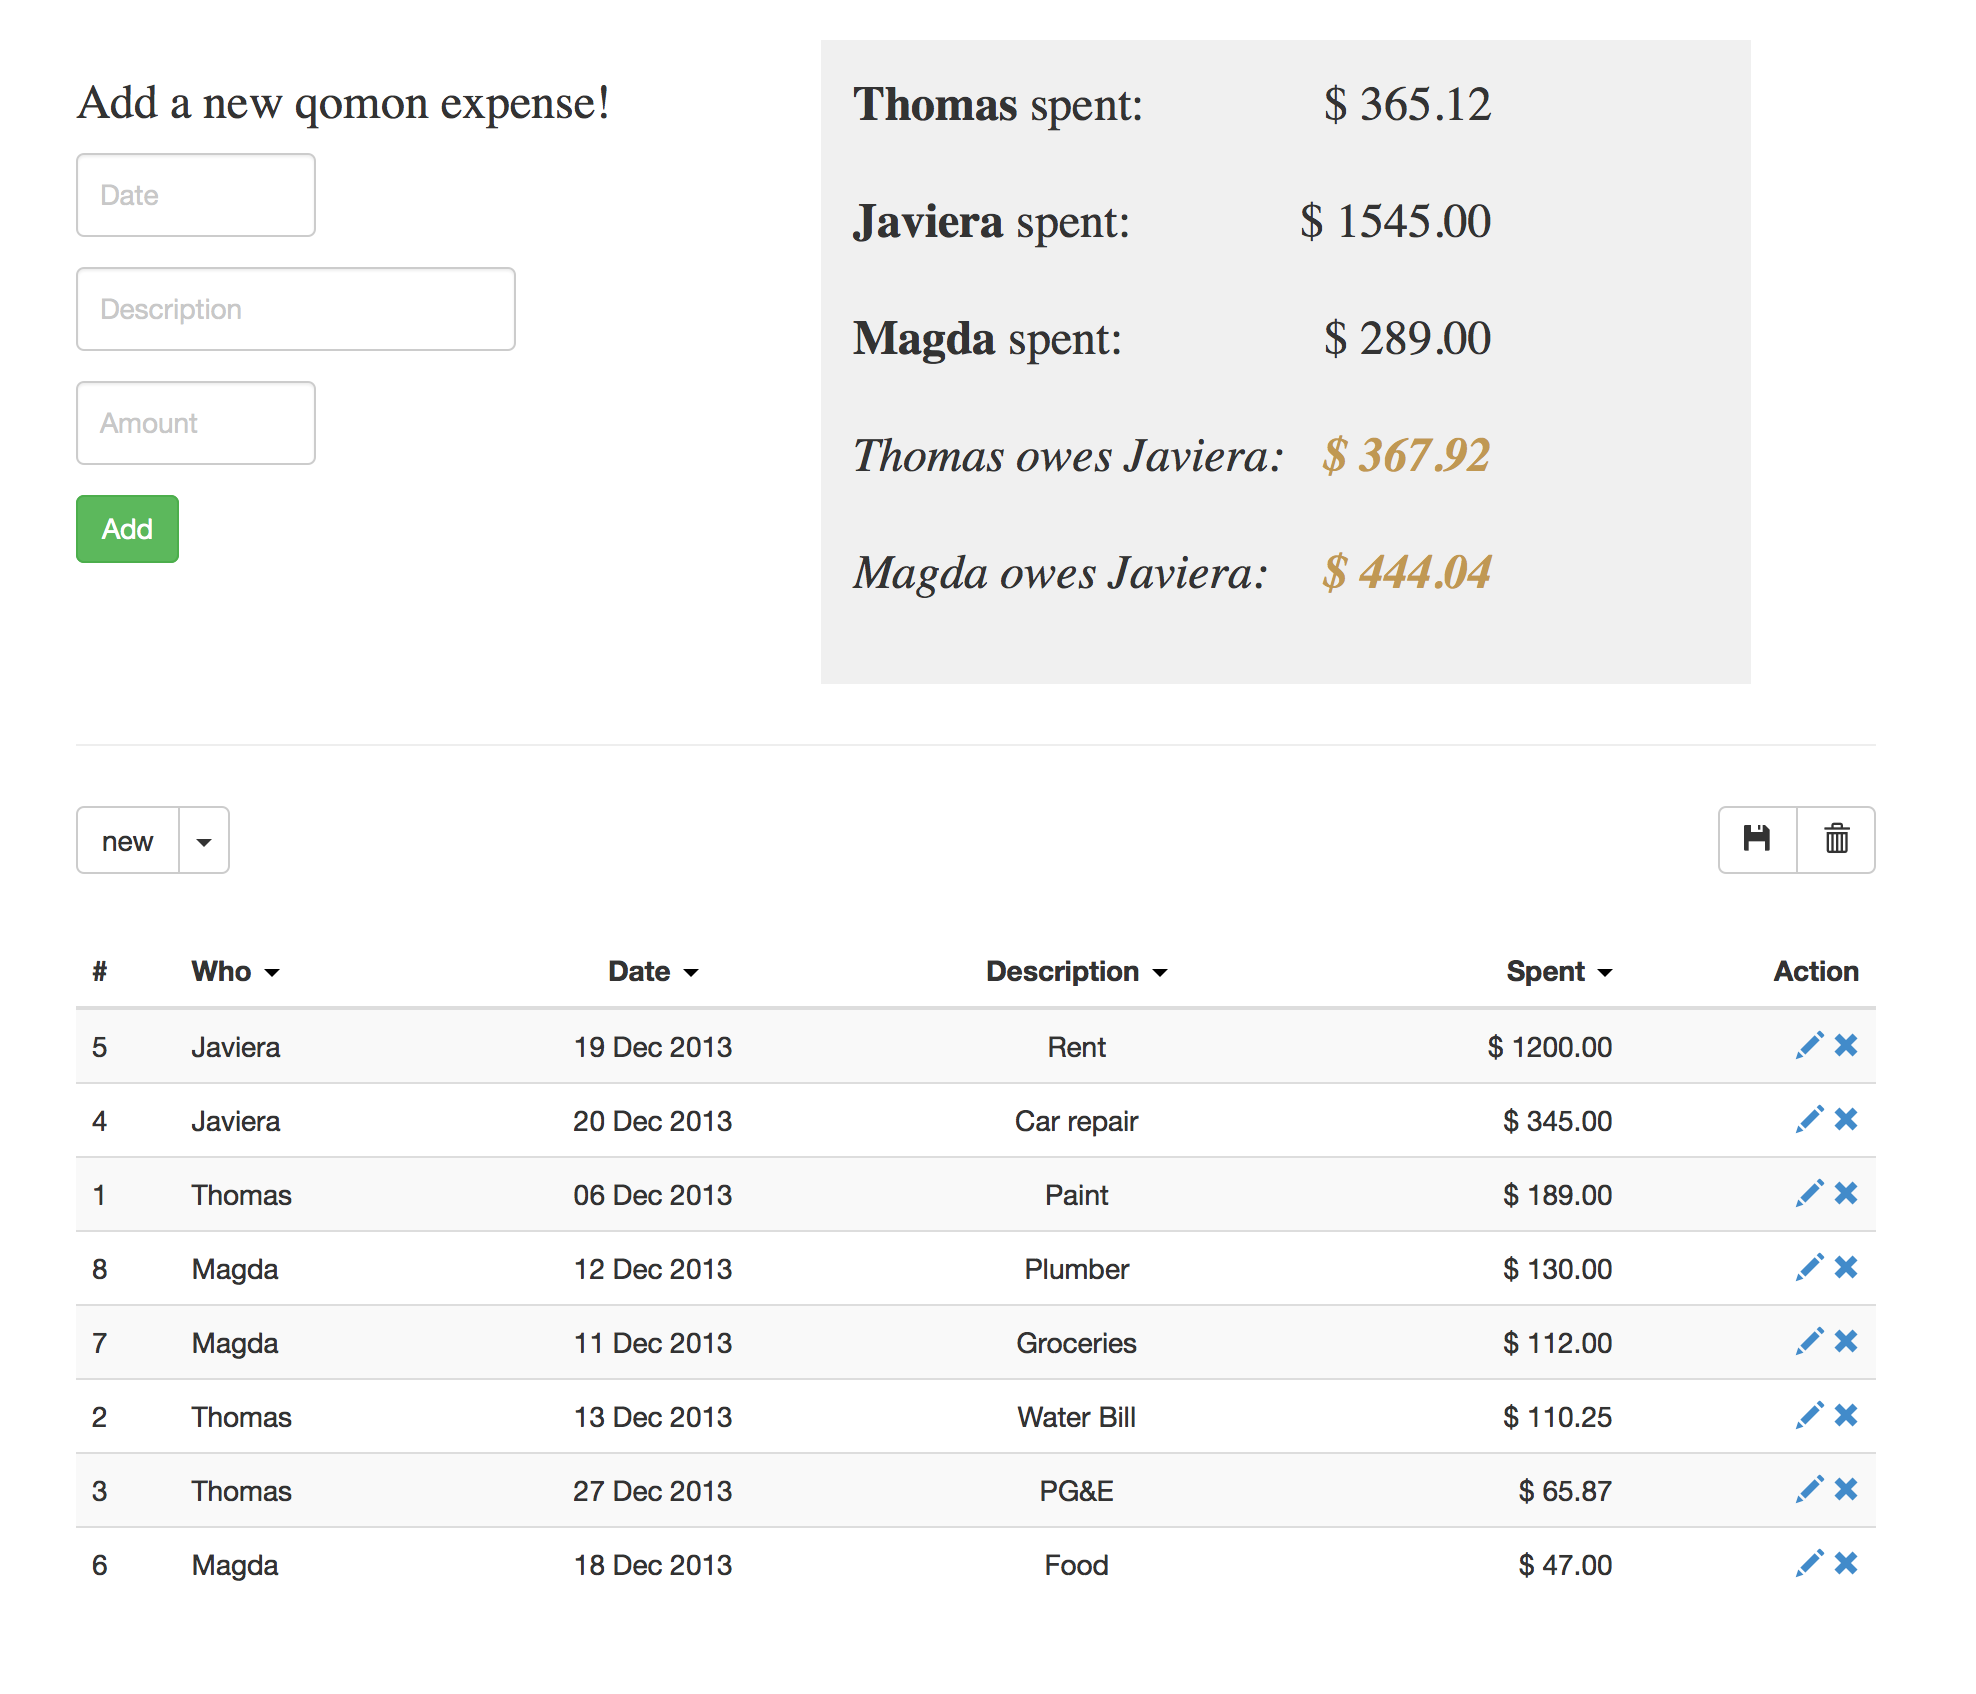
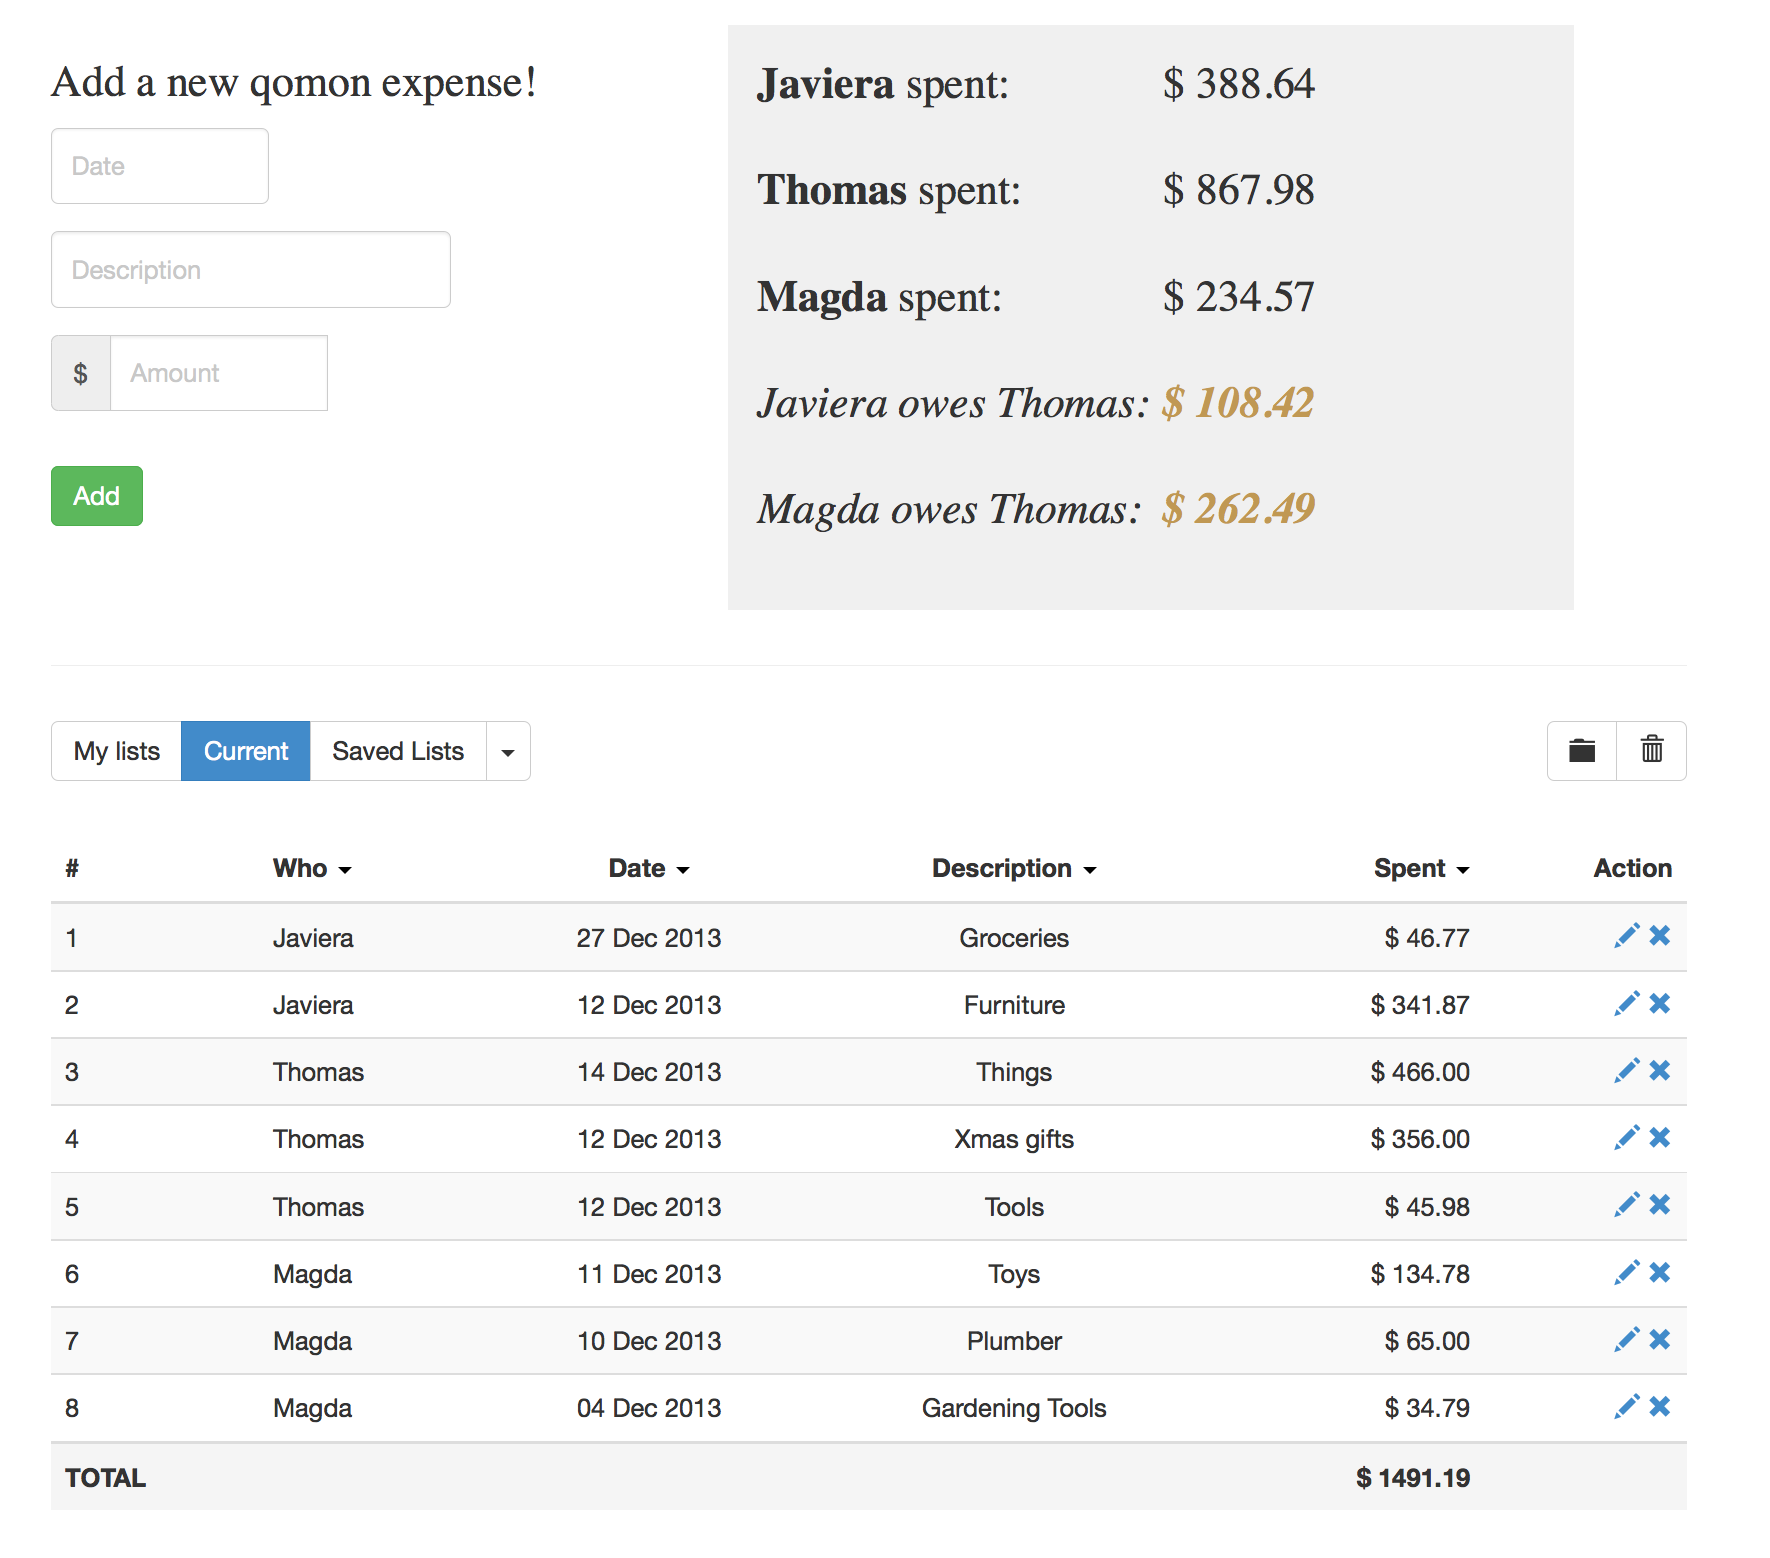
refined list panel

diff --git a/app/templates/users/profile.html b/app/templates/users/profile.html
@@ -14,8 +14,7 @@
 <div class="row">
 	<div class="col-sm-3 col-md-4 col-lg-4">
 		
-		<h3 class="text-mutted text-left">  Add a new qomon expense! </h3>
-		  
+		<h3 class="text-mutted text-left">  Add a new qomon expense! </h3>  
 		{% from "forms/macros.html" import render_field %}
 		<form role="form" class="form form-medium" action="{{ url_for('users.profile') }}" method="post">
 		{{ form.csrf_token }}
@@ -31,11 +30,10 @@
 		        {{ render_field(form.amount, class="form-control input-small text") }}
             </div>
 			<p> &nbsp;</p>
-			
-			{% if user.current_list != "new" %}
-	  		<button type="submit" class="btn btn-success disabled">Add</button>
-			{% else %}
-			<button type="submit" class="btn btn-success">Add</button>
+            {% if user.current_list == "new" %}
+	  		<button type="submit" class="btn btn-success">Add to Current List</button>
+		    {% else %}
+		    <button type="submit" class="btn btn-success">Add to {{user.current_list}}</button>
 			{% endif %}
 		 </form>
     
@@ -161,7 +159,7 @@
 <div class="row">
 	<div class="col-sm-6 col-md-4 col-lg-">
 		<div class="btn-group pull-left">
-			<button type="button" class="btn btn-default"> My lists </button>
+			<button type="button" class="btn btn-default"> My Lists </button>
 			
 			{% if user.current_list == "new" %}
 			<a class="btn btn-primary" href="{{ url_for('users.current_list',list_name='new') }}">Current</a>
@@ -173,7 +171,7 @@
 			{% if user.current_list != "new" %}
 			<button type="button" class="btn btn-primary"> {{user.current_list}}</button>
 			{% else %}
-			<button type="button" class="btn btn-default"> Saved Lists</button>
+			<button type="button" class="btn btn-default"> Archive </button>
 			{% endif %}
 				
   		    <button type="button" class="btn btn-default dropdown-toggle" data-toggle="dropdown">
@@ -204,11 +202,13 @@
 	<div class="col-sm-6 col-md-6 col-lg-5 col-md-offset-2">
 		<div class="btn-group pull-right">
 		
-			<button type="button" class="btn btn-default" data-toggle="modal" data-target="#save"> 
-				<span class="glyphicon glyphicon-folder-close"></span>
+			<button type="button" class="btn btn-default" rel="tooltip" 
+			        title="Archive List &amp; Start New" data-toggle="modal" data-target="#save"> 
+				<span class="glyphicon glyphicon-flash"></span>
 			</button>
 			
-  		  	<button class="btn btn-default" data-toggle="modal" data-target="#delete_new">
+  		  	<button class="btn btn-default" rel="tooltip" 
+			         title="Delete List" data-toggle="modal" data-target="#delete_new">
 				<span class="glyphicon glyphicon-trash"></span>
 			</button>
 		</div>
@@ -243,7 +243,7 @@
      <div class="modal-content">
        <div class="modal-header">
          <button type="button" class="close" data-dismiss="modal" aria-hidden="true">&times;</button>
-         <h3 class="modal-title" id="myModalLabel">Save List</h3>
+         <h3 class="modal-title" id="myModalLabel">Archive List and Start New</h3>
        </div>
 	   
 	   <form role="form_list" class="form form-medium" action="." method="post">
@@ -256,7 +256,7 @@
       	<div class="modal-footer">
          	<button type="button" class="btn btn-default" data-dismiss="modal">Close</button>
 		 	<a href="#">
-		  	  <button class="btn btn-success">Save List</button></a> 
+		  	  <button class="btn btn-success">Archive List</button></a> 
        	</div>
       </form>
 	  

diff --git a/app/templates/base.html b/app/templates/base.html
@@ -137,6 +137,13 @@
 	     .on('click', clickToggle);
 	
 	</script> 	
+	
+	<script type="text/javascript">
+	    $(function () {
+	        $("[rel='tooltip']").tooltip();
+	    });
+	</script>
+
 				
 </body>
 </html>

diff --git a/app/users/views.py b/app/users/views.py
@@ -136,10 +136,25 @@ def profile():
     user = User.query.filter_by(id=session['user_id']).first()
     p1 = User.query.filter_by(email=user.partner1_email).first()
     p2 = User.query.filter_by(email=user.partner2_email).first()
-    unique_lists = Account.query.group_by(Account.list_name).\
+    unique_lists_u = Account.query.group_by(Account.list_name).\
                           filter_by(user_id=session['user_id']).\
-                          order_by(Account.trans_id).all()       
-    lists = [l.list_name for l in unique_lists] 
+                          order_by(Account.trans_id).all() 
+    
+    all_lists = unique_lists_u                      
+    if p1: 
+        unique_lists_p1 = Account.query.group_by(Account.list_name).\
+                          filter_by(user_id=p1.id).\
+                          order_by(Account.trans_id).all()
+        all_lists = all_lists + unique_lists_p1
+        
+    if p2: 
+        unique_lists_p2 = Account.query.group_by(Account.list_name).\
+                          filter_by(user_id=p2.id).\
+                          order_by(Account.trans_id).all() 
+        all_lists = all_lists + unique_lists_p2                      
+  
+    lists = list(set([l.list_name for l in all_lists]))                                       
+
     if "new" not in lists: lists.append(u"new")     
     
     form = DataForm(request.form)
